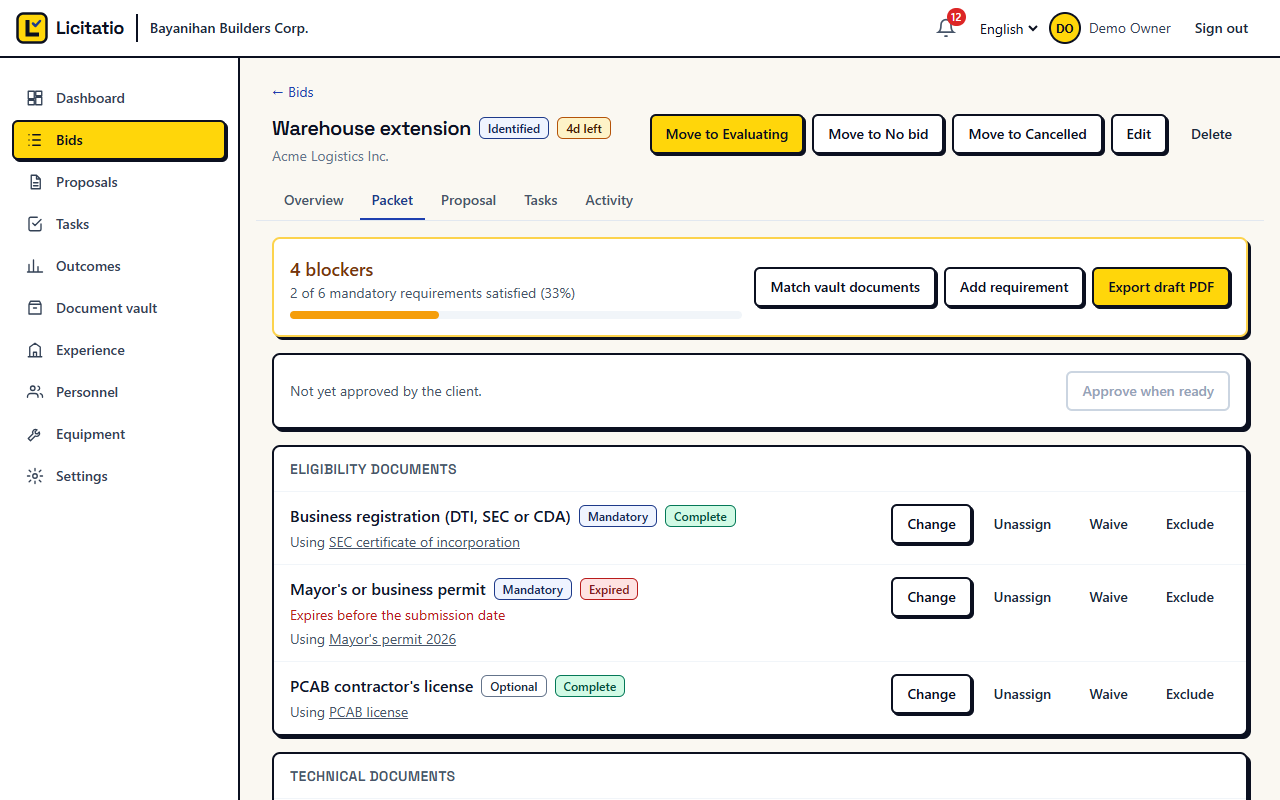
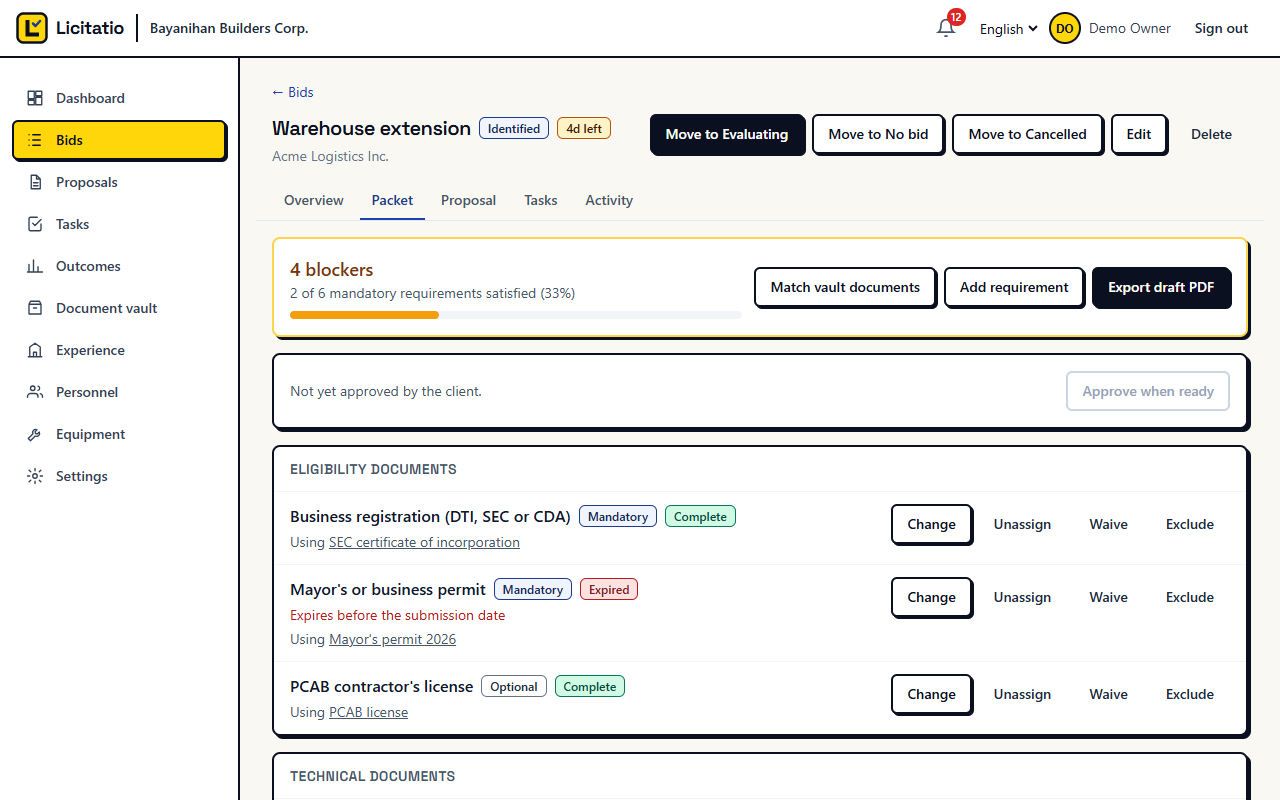
Tone the neo-brutalist style toward a professional look
Paper backgrounds instead of full yellow, no tilted stickers or dot
patterns, 2px outlines and smaller shadows on the site, ink primary
buttons and plain dialog headers in the app. Yellow stays as the accent.

Changed region(s): [[0.8438, 0.3125, 0.9688, 0.4062], [0.5, 0.125, 0.625, 0.1875]]

diff --git a/apps/web/src/features/public/PublicPages.tsx b/apps/web/src/features/public/PublicPages.tsx
@@ -16,7 +16,7 @@ const LINKS = [
 function PublicHeader() {
   const [open, setOpen] = useState(false);
   return (
-    <header className="sticky top-0 z-30 border-b-[3px] border-ink bg-white">
+    <header className="sticky top-0 z-30 border-b-2 border-ink bg-white">
       <div className="mx-auto flex h-16 max-w-6xl items-center gap-4 px-4">
         <Link to="/" className="flex items-center gap-2" aria-label="Licitatio home">
           <img src="/icon.svg" alt="" width={32} height={32} className="h-8 w-8" />
@@ -30,18 +30,18 @@ function PublicHeader() {
         <div className="ml-auto hidden items-center gap-2 md:flex">
           <LanguageSwitch />
           <Link to="/login" className="rounded-md px-3 py-2 text-sm font-medium text-slate-700 hover:bg-slate-100">Sign in</Link>
-          <Link to="/register" className="rounded-md press border-[3px] border-ink bg-accent-400 text-ink shadow-brut hover:shadow-brut-lg px-4 py-2 text-sm font-bold">Start free trial</Link>
+          <Link to="/register" className="rounded-md press border-2 border-ink bg-accent-400 text-ink shadow-brut hover:shadow-brut-sm px-4 py-2 text-sm font-bold">Start free trial</Link>
         </div>
         <button type="button" className="ml-auto rounded p-2 text-slate-600 md:hidden" aria-label="Menu" aria-expanded={open} onClick={() => setOpen((v) => !v)}>
           <svg viewBox="0 0 24 24" className="h-6 w-6" fill="none" stroke="currentColor" strokeWidth="2" aria-hidden><path d={open ? 'M6 6l12 12M18 6L6 18' : 'M4 6h16M4 12h16M4 18h16'} /></svg>
         </button>
       </div>
       {open && (
-        <nav className="border-t-[3px] border-ink bg-white px-4 py-3 md:hidden" aria-label="Site">
+        <nav className="border-t-2 border-ink bg-white px-4 py-3 md:hidden" aria-label="Site">
           {LINKS.map((l) => <Link key={l.to} to={l.to} className="block rounded-md px-3 py-2.5 text-base font-medium text-slate-700 hover:bg-slate-100" onClick={() => setOpen(false)}>{l.label}</Link>)}
           <div className="mt-3 grid grid-cols-2 gap-2 border-t border-slate-100 pt-3">
-            <Link to="/login" className="rounded-md press border-[3px] border-ink bg-white text-ink shadow-brut hover:shadow-brut-lg px-3 py-2.5 text-center text-sm font-bold">Sign in</Link>
-            <Link to="/register" className="rounded-md press border-[3px] border-ink bg-accent-400 text-ink shadow-brut hover:shadow-brut-lg px-3 py-2.5 text-center text-sm font-bold">Start free trial</Link>
+            <Link to="/login" className="rounded-md press border-2 border-ink bg-white text-ink shadow-brut hover:shadow-brut-sm px-3 py-2.5 text-center text-sm font-bold">Sign in</Link>
+            <Link to="/register" className="rounded-md press border-2 border-ink bg-accent-400 text-ink shadow-brut hover:shadow-brut-sm px-3 py-2.5 text-center text-sm font-bold">Start free trial</Link>
           </div>
           <div className="mt-3"><LanguageSwitch /></div>
         </nav>
@@ -52,7 +52,7 @@ function PublicHeader() {
 
 function PublicFooter() {
   return (
-    <footer className="border-t-[3px] border-ink bg-white">
+    <footer className="border-t-2 border-ink bg-white">
       <div className="mx-auto grid max-w-6xl gap-8 px-4 py-10 sm:grid-cols-3">
         <div>
           <div className="flex items-center gap-2"><img src="/icon.svg" alt="" width={28} height={28} className="h-7 w-7" /><span className="font-display text-lg font-bold text-ink">Licitatio</span></div>
@@ -92,11 +92,11 @@ function PublicLayout({ children }: { children: ReactNode }) {
 
 function PageIntro({ eyebrow, title, children }: { eyebrow: string; title: string; children?: ReactNode }) {
   return (
-    <section className="border-b-[3px] border-ink bg-accent-400 bg-[radial-gradient(#0b102026_1.5px,transparent_1.5px)] [background-size:22px_22px]">
+    <section className="border-b-2 border-ink bg-paper">
       <div className="mx-auto max-w-4xl px-4 py-14 text-center sm:py-20">
-        <p className="inline-block rotate-[-2deg] rounded-md border-2 border-ink bg-ink px-3 py-1 text-xs font-bold uppercase tracking-widest text-accent-300">{eyebrow}</p>
-        <h1 className="mt-5 text-4xl font-bold leading-[1.05] text-ink sm:text-6xl">{title}</h1>
-        {children && <div className="mx-auto mt-5 max-w-2xl text-base font-medium text-ink/80 sm:text-lg">{children}</div>}
+        <p className="inline-block rounded-md border-2 border-ink bg-accent-300 px-2.5 py-0.5 text-xs font-bold uppercase tracking-wider text-ink">{eyebrow}</p>
+        <h1 className="mt-5 text-4xl font-bold leading-[1.1] text-ink sm:text-5xl">{title}</h1>
+        {children && <div className="mx-auto mt-5 max-w-2xl text-base text-slate-700 sm:text-lg">{children}</div>}
       </div>
     </section>
   );
@@ -115,9 +115,9 @@ const SHOTS = [
 
 function Shot({ src, title, priority }: { src: string; title: string; priority?: boolean }) {
   return (
-    <div className="overflow-hidden rounded-xl border-[3px] border-ink bg-white shadow-brut-xl">
-      <div className="flex items-center gap-1.5 border-b-[3px] border-ink bg-accent-300 px-3 py-2" aria-hidden>
-        <span className="h-3 w-3 rounded-full border-2 border-ink bg-white" /><span className="h-3 w-3 rounded-full border-2 border-ink bg-white" /><span className="h-3 w-3 rounded-full border-2 border-ink bg-white" />
+    <div className="overflow-hidden rounded-xl border-2 border-ink bg-white shadow-brut">
+      <div className="flex items-center gap-1.5 border-b-2 border-ink bg-white px-3 py-2" aria-hidden>
+        <span className="h-2.5 w-2.5 rounded-full bg-slate-300" /><span className="h-2.5 w-2.5 rounded-full bg-slate-300" /><span className="h-2.5 w-2.5 rounded-full bg-slate-300" />
       </div>
       <img src={src} alt={`Screenshot: ${title}`} width={1280} height={800} loading={priority ? 'eager' : 'lazy'} decoding="async" className="block aspect-[16/10] w-full object-cover object-top" />
     </div>
@@ -156,17 +156,17 @@ export function Landing() {
   const hero = SHOTS[0];
   return (
     <PublicLayout>
-      <section className="relative overflow-hidden border-b-[3px] border-ink bg-accent-400 bg-[radial-gradient(#0b102026_1.5px,transparent_1.5px)] [background-size:22px_22px]">
+      <section className="relative overflow-hidden border-b-2 border-ink bg-paper">
         <div className="mx-auto grid max-w-6xl items-center gap-10 px-4 py-14 sm:py-20 lg:grid-cols-2">
           <div>
-            <p className="inline-flex rotate-[-2deg] rounded-md border-2 border-ink bg-ink px-3 py-1 text-xs font-bold uppercase tracking-widest text-accent-300">For Philippine contractors</p>
-            <h1 className="mt-5 text-[2.6rem] font-bold leading-[1.02] text-ink sm:text-6xl">Never lose a bid to a missing permit again.</h1>
-            <p className="mt-6 text-lg font-medium text-ink/85">Licitatio keeps your documents, track record and bids in one place, warns you before anything expires, and builds your bid packet and proposal in hours instead of days.</p>
+            <p className="inline-flex rounded-md border-2 border-ink bg-accent-300 px-2.5 py-0.5 text-xs font-bold uppercase tracking-wider text-ink">For Philippine contractors</p>
+            <h1 className="mt-5 text-4xl font-bold leading-[1.08] text-ink sm:text-[3.25rem]">Never lose a bid to a missing permit again.</h1>
+            <p className="mt-6 text-lg font-medium text-slate-700">Licitatio keeps your documents, track record and bids in one place, warns you before anything expires, and builds your bid packet and proposal in hours instead of days.</p>
             <div className="mt-8 flex flex-col gap-3 sm:flex-row">
-              <Link to="/register" className="rounded-lg press border-[3px] border-ink bg-ink text-accent-300 shadow-brut hover:shadow-brut-lg px-6 py-3.5 text-center text-base font-bold">Start your {TRIAL_DAYS}-day free trial</Link>
-              <Link to="/gallery" className="rounded-lg press border-[3px] border-ink bg-white text-ink shadow-brut hover:shadow-brut-lg px-6 py-3.5 text-center text-base font-bold">See the app</Link>
+              <Link to="/register" className="rounded-lg press border-2 border-ink bg-ink text-accent-300 shadow-brut hover:shadow-brut-sm px-6 py-3.5 text-center text-base font-bold">Start your {TRIAL_DAYS}-day free trial</Link>
+              <Link to="/gallery" className="rounded-lg press border-2 border-ink bg-white text-ink shadow-brut hover:shadow-brut-sm px-6 py-3.5 text-center text-base font-bold">See the app</Link>
             </div>
-            <p className="mt-5 text-sm font-semibold text-ink/75">No credit card needed. Works on phone, tablet and computer.</p>
+            <p className="mt-5 text-sm text-slate-600">No credit card needed. Works on phone, tablet and computer.</p>
           </div>
           {hero && <Shot src={hero.src} title={hero.title} priority />}
         </div>
@@ -174,13 +174,13 @@ export function Landing() {
 
       <section className="mx-auto max-w-6xl px-4 py-16 sm:py-20" aria-labelledby="features-h">
         <div className="mx-auto max-w-2xl text-center">
-          <h2 id="features-h" className="text-4xl font-bold text-ink sm:text-5xl">Everything a bid needs, ready when you are</h2>
+          <h2 id="features-h" className="text-3xl font-bold text-ink sm:text-4xl">Everything a bid needs, ready when you are</h2>
           <p className="mt-3 text-slate-600">Made with contractors who bid on government and private projects.</p>
         </div>
         <div className="mt-12 grid gap-5 sm:grid-cols-2 lg:grid-cols-3">
           {FEATURES.map((f) => (
-            <div key={f.title} className="press rounded-xl border-[3px] border-ink bg-white p-6 shadow-brut-lg hover:shadow-brut-xl">
-              <span className="inline-flex h-12 w-12 items-center justify-center rounded-lg border-[3px] border-ink bg-accent-400 text-ink"><Icon d={f.icon} /></span>
+            <div key={f.title} className="press rounded-xl border-2 border-ink bg-white p-6 shadow-brut-sm hover:shadow-brut">
+              <span className="inline-flex h-12 w-12 items-center justify-center rounded-lg border-2 border-ink bg-accent-400 text-ink"><Icon d={f.icon} /></span>
               <h3 className="mt-5 text-xl font-bold text-ink">{f.title}</h3>
               <p className="mt-2 text-sm leading-relaxed text-slate-600">{f.body}</p>
             </div>
@@ -188,13 +188,13 @@ export function Landing() {
         </div>
       </section>
 
-      <section className="border-y-[3px] border-ink bg-brand-900 py-16 text-white sm:py-20" aria-labelledby="how-h">
+      <section className="border-y-2 border-ink bg-brand-900 py-16 text-white sm:py-20" aria-labelledby="how-h">
         <div className="mx-auto max-w-6xl px-4">
-          <h2 id="how-h" className="text-center text-4xl font-bold sm:text-5xl">How it works</h2>
+          <h2 id="how-h" className="text-center text-3xl font-bold sm:text-4xl">How it works</h2>
           <ol className="mt-12 grid gap-6 sm:grid-cols-2 lg:grid-cols-4">
             {STEPS.map((s) => (
-              <li key={s.n} className="rounded-xl border-[3px] border-ink bg-white p-6 text-ink shadow-[6px_6px_0_0_#ffd60a]">
-                <span className="flex h-11 w-11 items-center justify-center rounded-md border-[3px] border-ink bg-accent-400 font-display text-lg font-bold text-ink">{s.n}</span>
+              <li key={s.n} className="rounded-xl border-2 border-ink bg-white p-6 text-ink shadow-[4px_4px_0_0_#ffd60a]">
+                <span className="flex h-11 w-11 items-center justify-center rounded-md border-2 border-ink bg-accent-400 font-display text-lg font-bold text-ink">{s.n}</span>
                 <h3 className="mt-4 text-lg font-bold text-ink">{s.title}</h3>
                 <p className="mt-2 text-sm text-slate-600">{s.body}</p>
               </li>
@@ -205,32 +205,32 @@ export function Landing() {
 
       <section className="mx-auto max-w-6xl px-4 py-16 sm:py-20" aria-labelledby="pricing-h">
         <div className="mx-auto max-w-2xl text-center">
-          <h2 id="pricing-h" className="text-4xl font-bold text-ink sm:text-5xl">Simple monthly pricing</h2>
+          <h2 id="pricing-h" className="text-3xl font-bold text-ink sm:text-4xl">Simple monthly pricing</h2>
           <p className="mt-3 text-slate-600">Every plan starts with a {TRIAL_DAYS}-day free trial. Pay yearly and get 2 months free.</p>
         </div>
         <div className="mt-12 grid gap-6 lg:grid-cols-3">
           {PRICING.map((p) => (
-            <div key={p.code} className={cx('flex flex-col rounded-2xl border-[3px] p-7', p.featured ? 'border-ink bg-accent-300 shadow-brut-xl lg:-translate-y-3' : 'border-ink bg-white shadow-brut-lg')}>
-              {p.featured && <span className="mb-3 self-start rotate-[-2deg] rounded-md border-2 border-ink bg-ink px-3 py-1 text-xs font-bold uppercase tracking-wider text-accent-300">Most popular</span>}
+            <div key={p.code} className={cx('flex flex-col rounded-2xl border-2 p-7', p.featured ? 'border-ink bg-accent-300 shadow-brut' : 'border-ink bg-white shadow-brut-sm')}>
+              {p.featured && <span className="mb-3 self-start rounded-md border-2 border-ink bg-accent-300 px-2.5 py-0.5 text-xs font-bold uppercase tracking-wider text-ink">Most popular</span>}
               <h3 className="text-2xl font-bold text-ink">{p.name}</h3>
               <p className="mt-1 text-sm text-slate-500">{p.for}</p>
               <p className="mt-5"><span className="font-display text-4xl font-bold tracking-tight text-ink">PHP {formatCentavos(PLAN_PRICES[p.code]).replace(/\.00$/, '')}</span><span className="text-sm text-slate-500"> / month</span></p>
               <ul className="mt-6 flex-1 space-y-2.5 text-sm text-slate-700">
                 {p.points.map((x) => <li key={x} className="flex gap-2"><svg viewBox="0 0 24 24" className="mt-0.5 h-4 w-4 shrink-0 text-ink" fill="none" stroke="currentColor" strokeWidth="2.5" aria-hidden><path d="M5 12l5 5L20 7" /></svg>{x}</li>)}
               </ul>
-              <Link to="/register" className={cx('mt-7 rounded-lg px-4 py-3 text-center text-sm font-bold', p.featured ? 'press border-[3px] border-ink bg-ink text-accent-300 shadow-brut' : 'press border-[3px] border-ink bg-accent-400 text-ink shadow-brut')}>Start free trial</Link>
+              <Link to="/register" className={cx('mt-7 rounded-lg px-4 py-3 text-center text-sm font-bold', p.featured ? 'press border-2 border-ink bg-ink text-accent-300 shadow-brut' : 'press border-2 border-ink bg-accent-400 text-ink shadow-brut')}>Start free trial</Link>
             </div>
           ))}
         </div>
       </section>
 
       <section className="px-4 pb-20">
-        <div className="mx-auto max-w-5xl rounded-2xl border-[3px] border-ink bg-brand-900 px-6 py-12 text-center text-white shadow-[8px_8px_0_0_#ffd60a] sm:px-12">
-          <h2 className="text-3xl font-bold sm:text-5xl">Your next bid deserves a complete packet.</h2>
+        <div className="mx-auto max-w-5xl rounded-2xl border-2 border-ink bg-brand-900 px-6 py-12 text-center text-white shadow-[5px_5px_0_0_#ffd60a] sm:px-12">
+          <h2 className="text-2xl font-bold sm:text-4xl">Your next bid deserves a complete packet.</h2>
           <p className="mx-auto mt-3 max-w-xl text-brand-100">Set up your workspace in minutes. Bring your permits; we will handle the reminders.</p>
           <div className="mt-7 flex flex-col justify-center gap-3 sm:flex-row">
-            <Link to="/register" className="rounded-lg press border-[3px] border-ink bg-accent-400 text-ink shadow-brut hover:shadow-brut-lg px-6 py-3.5 font-bold">Start free trial</Link>
-            <Link to="/install" className="press rounded-lg border-[3px] border-white px-6 py-3.5 font-bold text-white hover:bg-white/10">Install on your phone</Link>
+            <Link to="/register" className="rounded-lg press border-2 border-ink bg-accent-400 text-ink shadow-brut hover:shadow-brut-sm px-6 py-3.5 font-bold">Start free trial</Link>
+            <Link to="/install" className="press rounded-lg border-2 border-white px-6 py-3.5 font-bold text-white hover:bg-white/10">Install on your phone</Link>
           </div>
         </div>
       </section>
@@ -260,7 +260,7 @@ export function AboutPage() {
               ['Simple beats clever', 'Clear screens that work on a phone at the site office, not only on a desktop.'],
               ['Local first', 'Philippine requirements, peso pricing, GCash, SMS and Filipino.'],
             ].map(([t, b]) => (
-              <li key={t} className="rounded-xl border-[3px] border-ink bg-white p-5 shadow-brut"><p className="font-semibold text-slate-900">{t}</p><p className="mt-1.5 text-sm">{b}</p></li>
+              <li key={t} className="rounded-xl border-2 border-ink bg-white p-5 shadow-brut"><p className="font-semibold text-slate-900">{t}</p><p className="mt-1.5 text-sm">{b}</p></li>
             ))}
           </ul>
         </section>
@@ -268,9 +268,9 @@ export function AboutPage() {
           <h2 className="text-3xl font-bold text-ink">About Semivra</h2>
           <p className="mt-4 leading-relaxed">Semivra is the company behind Licitatio. Besides the software, our desk team can prepare bid packets with you on the Desk plan, working inside your workspace only with access you grant, for a limited time, with every action recorded in your audit log.</p>
         </section>
-        <div className="rounded-xl border-[3px] border-ink bg-accent-400 p-6 text-center shadow-brut-lg">
+        <div className="rounded-xl border-2 border-ink bg-accent-400 p-6 text-center shadow-brut-sm">
           <p className="font-semibold text-slate-900">Want to see it with your own documents?</p>
-          <Link to="/register" className="mt-4 inline-block rounded-lg press border-[3px] border-ink bg-white text-ink shadow-brut hover:shadow-brut-lg px-6 py-3 font-bold">Start free trial</Link>
+          <Link to="/register" className="mt-4 inline-block rounded-lg press border-2 border-ink bg-white text-ink shadow-brut hover:shadow-brut-sm px-6 py-3 font-bold">Start free trial</Link>
         </div>
       </div>
     </PublicLayout>
@@ -310,7 +310,7 @@ export function GalleryPage() {
       {current && (
         <div className="fixed inset-0 z-50 flex items-center justify-center bg-ink/90 p-4" role="dialog" aria-modal="true" aria-label={current.title} onClick={() => setZoom(null)}>
           <div className="w-full max-w-6xl" onClick={(e) => e.stopPropagation()}>
-            <img src={current.src} alt={`Screenshot: ${current.title}`} className="max-h-[80vh] w-full rounded-lg border-[3px] border-accent-400 object-contain" />
+            <img src={current.src} alt={`Screenshot: ${current.title}`} className="max-h-[80vh] w-full rounded-lg border-2 border-accent-400 object-contain" />
             <div className="mt-3 flex items-center justify-between gap-3 text-white">
               <button type="button" className="rounded-md bg-white/10 px-4 py-2 text-sm hover:bg-white/20" onClick={() => setZoom((zoom! - 1 + SHOTS.length) % SHOTS.length)}>Previous</button>
               <p className="text-center text-sm font-medium">{current.title}</p>
@@ -330,7 +330,7 @@ export function GalleryPage() {
 
 function DraftNotice() {
   return (
-    <div className="mb-8 rounded-lg border-[3px] border-ink bg-accent-200 p-4 text-sm font-medium text-ink shadow-brut" role="note">
+    <div className="mb-8 rounded-lg border-2 border-ink bg-accent-200 p-4 text-sm font-medium text-ink shadow-brut" role="note">
       This policy is being reviewed by our lawyer. The reviewed version will replace this page, and account holders will be told by email before any material change takes effect.
     </div>
   );
@@ -440,13 +440,13 @@ export function InstallPage() {
         <p>Licitatio installs straight from your browser. No app store, no large download, and it updates itself.</p>
       </PageIntro>
       <div className="mx-auto max-w-5xl px-4 py-14">
-        <div className="rounded-2xl border-[3px] border-ink bg-accent-300 p-6 text-center shadow-brut-lg sm:p-8">
+        <div className="rounded-2xl border-2 border-ink bg-accent-300 p-6 text-center shadow-brut-sm sm:p-8">
           {installed ? (
             <p className="font-bold text-ink">Licitatio is installed on this device.</p>
           ) : event ? (
             <>
               <p className="font-semibold text-slate-900">Your browser can install Licitatio now.</p>
-              <button type="button" onClick={() => void install()} className="mt-4 rounded-lg press border-[3px] border-ink bg-ink text-accent-300 shadow-brut hover:shadow-brut-lg px-6 py-3 font-bold">Install Licitatio</button>
+              <button type="button" onClick={() => void install()} className="mt-4 rounded-lg press border-2 border-ink bg-ink text-accent-300 shadow-brut hover:shadow-brut-sm px-6 py-3 font-bold">Install Licitatio</button>
             </>
           ) : (
             <p className="text-slate-700">Follow the steps for your device below. If you do not see an install option, open this page in Chrome, Edge or Safari.</p>
@@ -454,7 +454,7 @@ export function InstallPage() {
         </div>
         <div className="mt-10 grid gap-6 md:grid-cols-3">
           {PLATFORMS.map((p) => (
-            <section key={p.name} className="rounded-xl border-[3px] border-ink bg-white p-6 shadow-brut-lg">
+            <section key={p.name} className="rounded-xl border-2 border-ink bg-white p-6 shadow-brut-sm">
               <h2 className="text-xl font-bold text-ink">{p.name}</h2>
               <ol className="mt-4 space-y-3 text-sm text-slate-700">
                 {p.steps.map((s, i) => <li key={s} className="flex gap-3"><span className="flex h-6 w-6 shrink-0 items-center justify-center rounded-md border-2 border-ink bg-accent-400 text-xs font-bold text-ink">{i + 1}</span><span>{s}</span></li>)}

diff --git a/apps/web/src/features/auth/AuthScreens.tsx b/apps/web/src/features/auth/AuthScreens.tsx
@@ -20,14 +20,14 @@ const ORG_TYPE_LABELS: Record<(typeof ORG_TYPES)[number], string> = {
 
 function AuthCard({ title, subtitle, children, footer }: { title: string; subtitle?: string; children: ReactNode; footer?: ReactNode }) {
   return (
-    <main className="flex min-h-screen flex-col items-center justify-center bg-paper bg-[radial-gradient(#0b10201f_1px,transparent_1px)] [background-size:18px_18px] px-4 py-10">
+    <main className="flex min-h-screen flex-col items-center justify-center bg-paper px-4 py-10">
       <div className="w-full max-w-md">
         <div className="mb-6 flex items-center justify-center gap-2">
           <img src="/icon.svg" alt="" className="h-9 w-9" />
           <span className="font-display text-2xl font-bold text-ink">Licitatio</span>
           <LanguageSwitch className="ml-3" />
         </div>
-        <div className="card p-6 shadow-brut-lg sm:p-8">
+        <div className="card p-6 shadow-brut sm:p-8">
           <h1 className="text-xl font-semibold">{title}</h1>
           {subtitle && <p className="mt-1 text-sm text-slate-500">{subtitle}</p>}
           <div className="mt-6">{children}</div>
@@ -162,7 +162,7 @@ export function VerifyEmailScreen() {
   }
   return (
     <AuthCard title={t('Email verified')} subtitle={t('Your account is ready.')}>
-      <Link to="/login" className="inline-flex w-full justify-center press rounded-md border-2 border-ink bg-accent-400 px-4 py-2 text-sm font-semibold text-ink shadow-brut-xs hover:bg-accent-300">{t('Sign in')}</Link>
+      <Link to="/login" className="inline-flex w-full justify-center press rounded-md border-2 border-ink bg-ink px-4 py-2 text-sm font-semibold text-white shadow-brut-xs hover:bg-brand-900">{t('Sign in')}</Link>
     </AuthCard>
   );
 }
@@ -210,7 +210,7 @@ export function ResetPasswordScreen() {
   if (done) {
     return (
       <AuthCard title={t('Password updated')} subtitle={t('You were signed out on every device.')}>
-        <Link to="/login" className="inline-flex w-full justify-center press rounded-md border-2 border-ink bg-accent-400 px-4 py-2 text-sm font-semibold text-ink shadow-brut-xs">{t('Sign in')}</Link>
+        <Link to="/login" className="inline-flex w-full justify-center press rounded-md border-2 border-ink bg-ink px-4 py-2 text-sm font-semibold text-white shadow-brut-xs">{t('Sign in')}</Link>
       </AuthCard>
     );
   }

diff --git a/apps/web/src/ui/index.tsx b/apps/web/src/ui/index.tsx
@@ -7,7 +7,7 @@ const cx = (...parts: Array<string | false | null | undefined>): string => parts
 // ---------- buttons ----------
 type Variant = 'primary' | 'secondary' | 'danger' | 'ghost';
 const VARIANTS: Record<Variant, string> = {
-  primary: 'press border-2 border-ink bg-accent-400 text-ink shadow-brut-xs hover:bg-accent-300 hover:shadow-brut-sm disabled:border-slate-400 disabled:bg-slate-200 disabled:text-slate-500 disabled:shadow-none',
+  primary: 'press border-2 border-ink bg-ink text-white shadow-brut-xs hover:bg-brand-900 hover:shadow-brut-sm disabled:border-slate-400 disabled:bg-slate-200 disabled:text-slate-500 disabled:shadow-none',
   secondary: 'press border-2 border-ink bg-white text-ink shadow-brut-xs hover:bg-paper hover:shadow-brut-sm disabled:border-slate-300 disabled:text-slate-400 disabled:shadow-none',
   danger: 'press border-2 border-ink bg-red-600 text-white shadow-brut-xs hover:bg-red-700 hover:shadow-brut-sm disabled:bg-red-600/50 disabled:shadow-none',
   ghost: 'border-2 border-transparent text-slate-800 hover:border-ink hover:bg-white disabled:text-slate-400 disabled:hover:border-transparent',
@@ -176,7 +176,7 @@ export function Dialog({ open, onClose, title, children, footer, wide }: { open:
     >
       {open && (
         <div className="flex max-h-[85vh] flex-col">
-          <div className="flex items-center justify-between border-b-2 border-ink bg-accent-300 px-5 py-3.5">
+          <div className="flex items-center justify-between border-b-2 border-ink bg-white px-5 py-3.5">
             <h2 id="dialog-title" className="text-lg font-bold">{title}</h2>
             <button type="button" onClick={onClose} className="flex h-8 w-8 items-center justify-center rounded-md border-2 border-ink bg-white font-bold hover:bg-paper" aria-label="Close">✕</button>
           </div>

diff --git a/apps/web/src/features/exports/ExportPage.tsx b/apps/web/src/features/exports/ExportPage.tsx
@@ -45,7 +45,7 @@ export function ExportPage() {
           <>
             <p className="text-sm text-slate-700">{e.fileName}{e.pageCount ? ` · ${e.pageCount} pages` : ''}</p>
             {e.fileName?.includes('_DRAFT') && <Alert tone="warning">This is a draft: some mandatory requirements are unresolved. The cover page says so.</Alert>}
-            {e.downloadUrl ? <a href={e.downloadUrl} className="inline-flex press rounded-md border-2 border-ink bg-accent-400 px-4 py-2 text-sm font-semibold text-ink shadow-brut-xs hover:bg-accent-300">Download</a> : <Alert tone="info">This export has expired.</Alert>}
+            {e.downloadUrl ? <a href={e.downloadUrl} className="inline-flex press rounded-md border-2 border-ink bg-ink px-4 py-2 text-sm font-semibold text-white shadow-brut-xs hover:bg-brand-900">Download</a> : <Alert tone="info">This export has expired.</Alert>}
           </>
         )}
         {e.warnings.length > 0 && (
